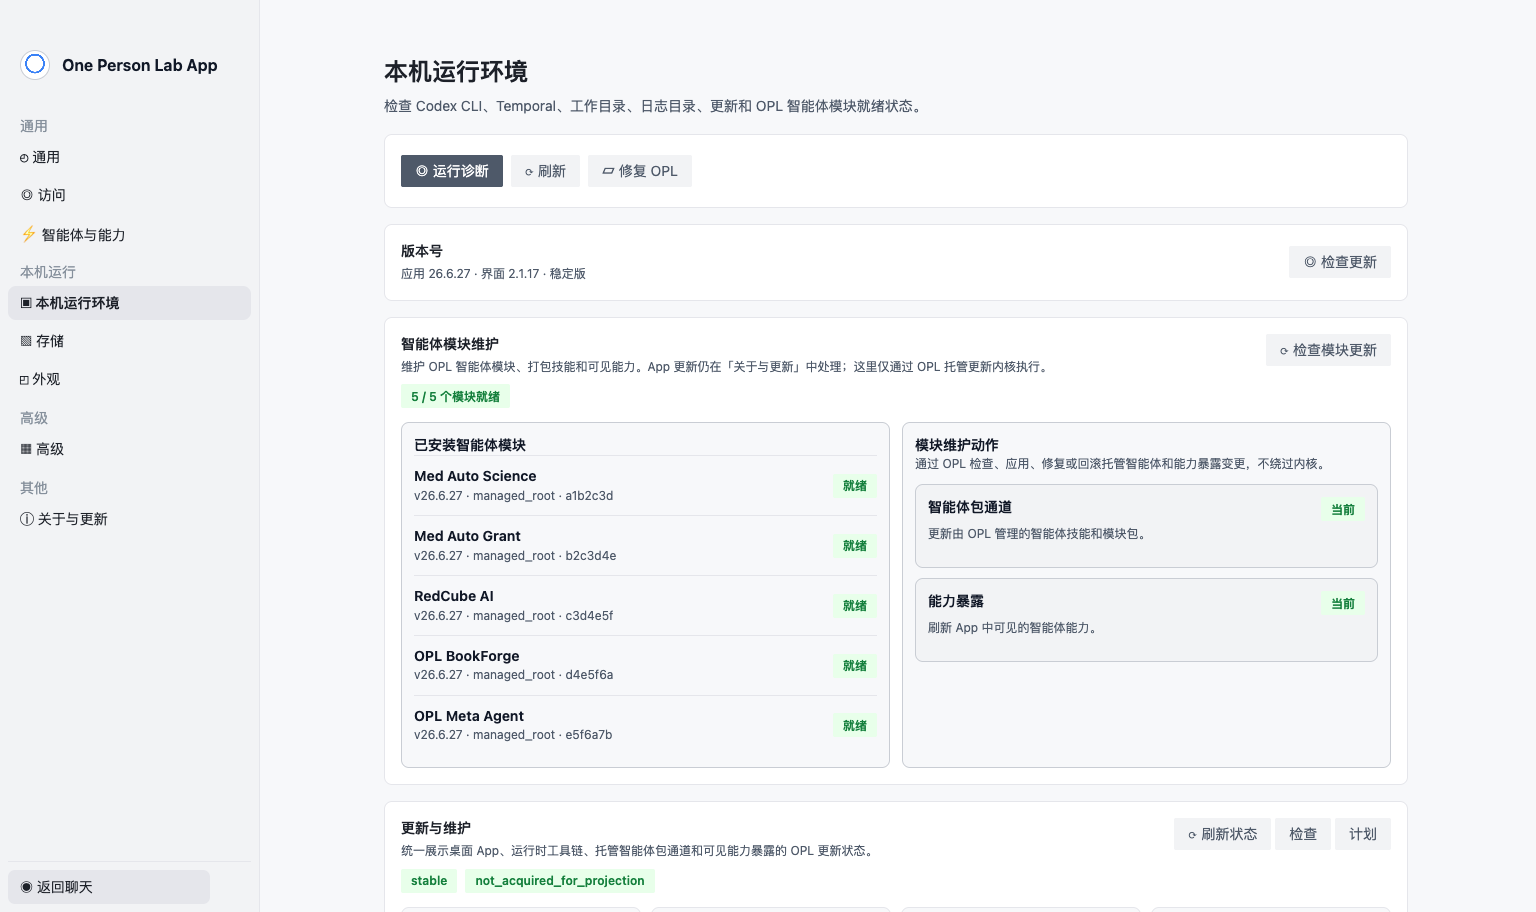
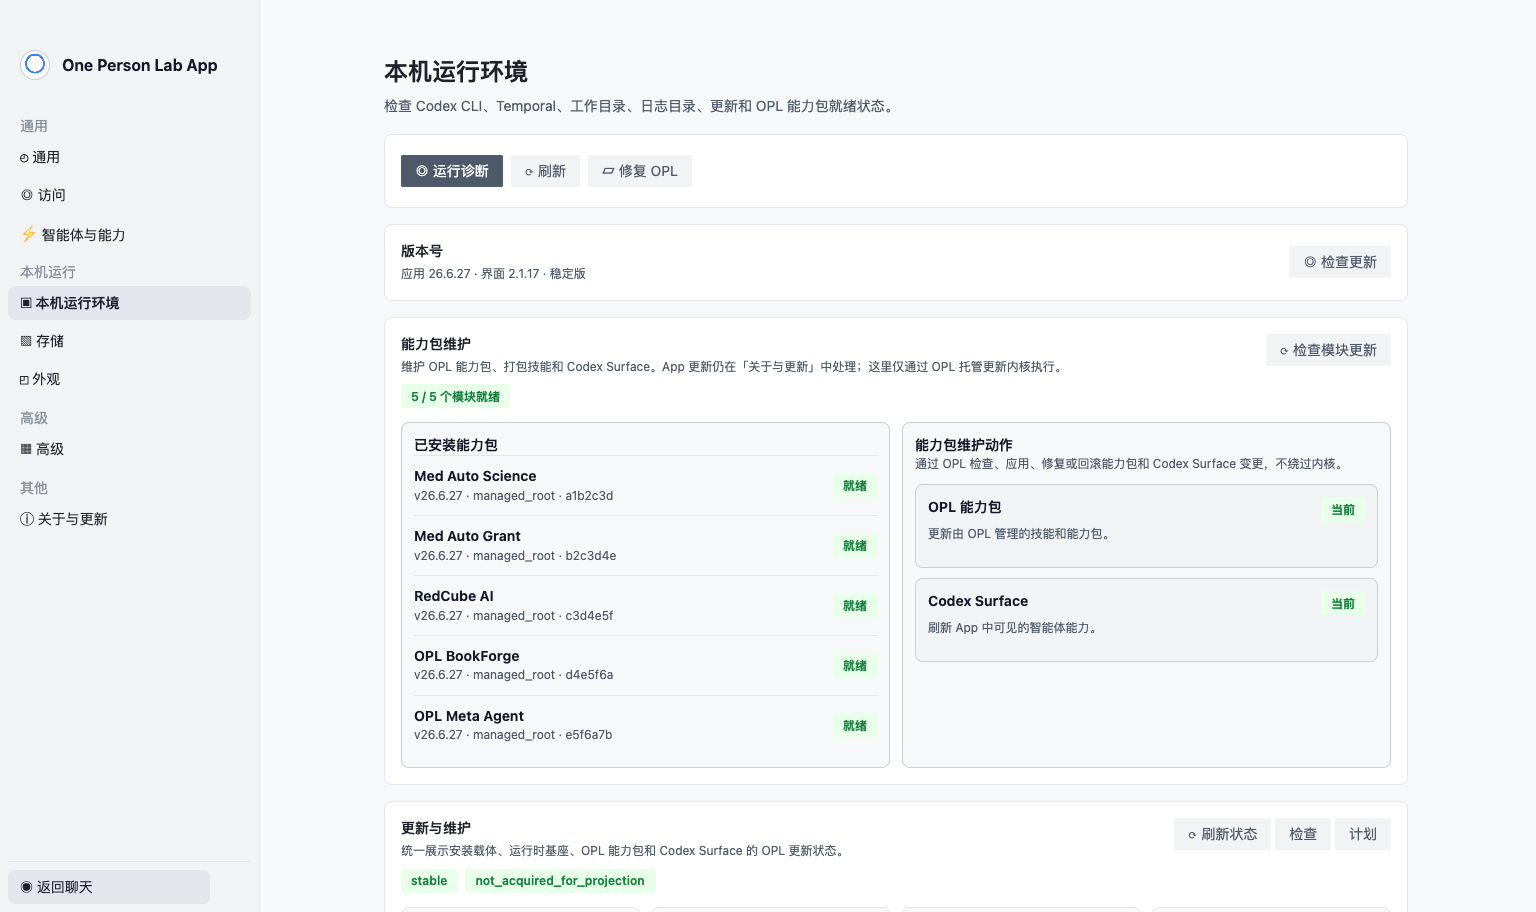
refactor install update carrier taxonomy

diff --git a/scripts/user-guides/render-runtime-environment-screenshot.ts b/scripts/user-guides/render-runtime-environment-screenshot.ts
@@ -200,7 +200,7 @@ function renderHtml(fixture: Fixture): string {
       <div class="content">
         <div>
           <h1>本机运行环境</h1>
-          <div class="desc">检查 Codex CLI、Temporal、工作目录、日志目录、更新和 OPL 智能体模块就绪状态。</div>
+          <div class="desc">检查 Codex CLI、Temporal、工作目录、日志目录、更新和 OPL 能力包就绪状态。</div>
         </div>
         <div class="card toolbar">
           <button class="primary">◎ 运行诊断</button>
@@ -217,20 +217,20 @@ function renderHtml(fixture: Fixture): string {
         <section class="card">
           <div class="maintenance-head">
             <div>
-              <div class="section-title">智能体模块维护</div>
-              <div class="muted">维护 OPL 智能体模块、打包技能和可见能力。App 更新仍在「关于与更新」中处理；这里仅通过 OPL 托管更新内核执行。</div>
+              <div class="section-title">能力包维护</div>
+              <div class="muted">维护 OPL 能力包、打包技能和 Codex Surface。App 更新仍在「关于与更新」中处理；这里仅通过 OPL 托管更新内核执行。</div>
               <div class="tagline"><span class="badge badge-green">5 / 5 个模块就绪</span></div>
             </div>
             <button>⟳ 检查模块更新</button>
           </div>
           <div class="two-col">
             <div class="panel">
-              <div class="strong">已安装智能体模块</div>
+              <div class="strong">已安装能力包</div>
               ${modules}
             </div>
             <div class="panel">
-              <div class="strong">模块维护动作</div>
-              <div class="muted">通过 OPL 检查、应用、修复或回滚托管智能体和能力暴露变更，不绕过内核。</div>
+              <div class="strong">能力包维护动作</div>
+              <div class="muted">通过 OPL 检查、应用、修复或回滚能力包和 Codex Surface 变更，不绕过内核。</div>
               ${maintenance}
             </div>
           </div>
@@ -239,7 +239,7 @@ function renderHtml(fixture: Fixture): string {
           <div class="maintenance-head">
             <div>
               <div class="section-title">更新与维护</div>
-              <div class="muted">统一展示桌面 App、运行时工具链、托管智能体包通道和可见能力暴露的 OPL 更新状态。</div>
+              <div class="muted">统一展示安装载体、运行时基座、OPL 能力包和 Codex Surface 的 OPL 更新状态。</div>
               <div class="tagline"><span class="badge badge-green">stable</span><span class="badge badge-green">not_acquired_for_projection</span></div>
             </div>
             <div><button>⟳ 刷新状态</button> <button>检查</button> <button>计划</button></div>

diff --git a/scripts/validate-active-shell/managed-update-plane-validator.ts b/scripts/validate-active-shell/managed-update-plane-validator.ts
@@ -274,7 +274,7 @@ function validateInstallationCarrierMacosVariant(variant) {
     variant?.data_volume_preservation_proof_required !== false ||
     variant?.repair_action_scope !== 'app_release_check_download_retry_or_install_downloaded_update_only'
   ) {
-    throw new Error('Installation carrier macOS App variant must bind the legacy App binary updater to macOS carrier semantics');
+    throw new Error('Installation carrier macOS App variant must bind the legacy macOS updater alias to carrier semantics');
   }
   assertIncludesAll(
     variant?.status_values,
@@ -289,7 +289,8 @@ function validateInstallationCarrierDockerWebuiVariant(variant) {
     variant?.managed_kernel_apply_allowed !== false ||
     variant?.data_volume_preservation_proof_required !== true ||
     variant?.repair_action_scope !== 'docker_webui_host_route_diagnostics_and_data_volume_preservation_only' ||
-    !String(variant?.opl_update_apply_boundary ?? '').includes('must not report Docker/WebUI image replacement as applied')
+    !String(variant?.opl_update_apply_boundary ?? '').includes('must not report Docker/WebUI image replacement as applied') ||
+    String(variant?.opl_update_apply_boundary ?? '').includes('codex_surface')
   ) {
     throw new Error('Installation carrier Docker/WebUI image variant must require host update route and forbid opl update apply from claiming image replacement');
   }

diff --git a/scripts/validate-active-shell/product-profile-validator.ts b/scripts/validate-active-shell/product-profile-validator.ts
@@ -257,6 +257,17 @@ function validateInstallUpdateTaxonomy(profile) {
     'Product profile install/update taxonomy classes',
   );
   assertDeepEqualJson(
+    profile.install_update_taxonomy?.ordinary_ui_must_not_use_legacy_names,
+    [
+      'app_binary',
+      'runtime_toolchain',
+      'agent_package_channel',
+      'capability_exposure',
+      'codex_cli_fallback',
+    ],
+    'Product profile install/update taxonomy forbidden legacy UI names',
+  );
+  assertDeepEqualJson(
     profile.companion_payloads?.tools,
     ['officecli', 'mineru_open_api'],
     'Product profile companion tools',

diff --git a/tests/release/app-release-boundary-cases/workflow-release-channels/managed-update-plane.ts b/tests/release/app-release-boundary-cases/workflow-release-channels/managed-update-plane.ts
@@ -176,6 +176,10 @@ test('managed update plane exposes the v2 install/update taxonomy and legacy ali
     carrierVariants.get('docker_webui_image').opl_update_apply_boundary,
     /must not report Docker\/WebUI image replacement as applied/,
   );
+  assert.doesNotMatch(
+    carrierVariants.get('docker_webui_image').opl_update_apply_boundary,
+    /codex_surface/,
+  );
   assert.equal(carrierVariants.get('linux_package_carrier').host_executor_required, true);
   assert.equal(carrierVariants.get('linux_package_carrier').managed_kernel_apply_allowed, false);
 
